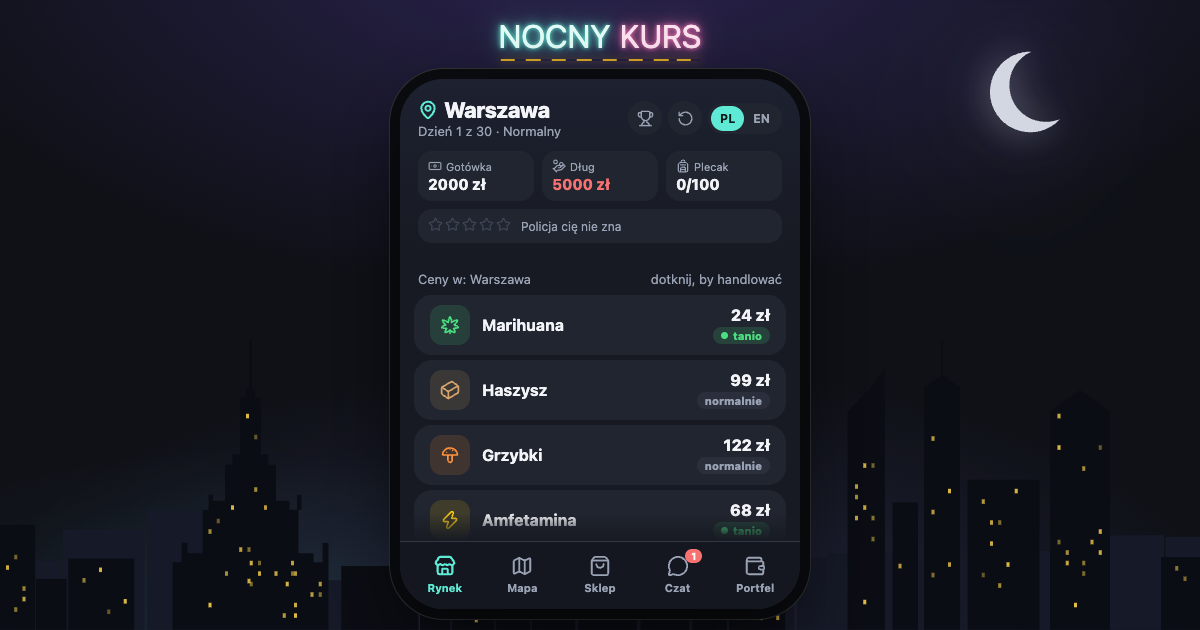
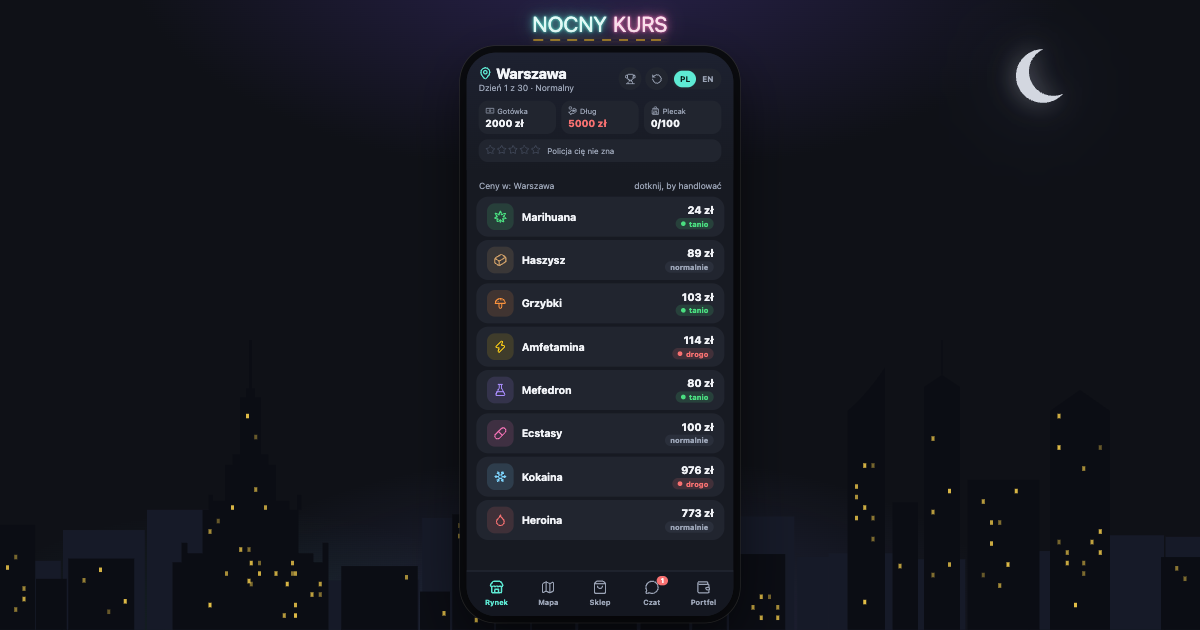
English README; fix Open Graph image proportions

Changed region(s): [[0.3392, 0.0, 0.6783, 0.9651], [0.3083, 0.3921, 0.4933, 0.9651], [0.8017, 0.0603, 0.8942, 0.2413]]

diff --git a/e2e/og.spec.ts b/e2e/og.spec.ts
@@ -1,6 +1,7 @@
 import { test } from '@playwright/test';
-// Generuje obrazek podglądu linku (Open Graph) 1200×630 do public/og.png
-test.use({ viewport: { width: 1200, height: 630 } });
+// Obrazek podglądu linku (Open Graph) 1200×630 → public/og.png.
+// Renderujemy w oknie 1800×945 (te same proporcje) i skalujemy ×2/3, żeby telefon miał naturalny kształt.
+test.use({ viewport: { width: 1800, height: 945 }, deviceScaleFactor: 2 / 3 });
 test('og image', async ({ page }) => {
   await page.goto('./');
   await page.evaluate(() => localStorage.clear());

diff --git a/README.md b/README.md
@@ -1,50 +1,51 @@
-# 🌙 Nocny Kurs / Night Run
+# 🌙 Night Run / Nocny Kurs
 
-Darmowa gra ekonomiczna w przeglądarce: kupuj tanio, sprzedawaj drogo, uciekaj przed policją i spłać Wujka Zbycha w 30 dni. Polskie miasta, nocny klimat, PL i EN.
+A free browser trading game: buy low, sell high, dodge the police and pay off Uncle Zbych in 30 days. Set in Polish cities at night, playable in English and Polish.
 
-**Zagraj:** https://jbutton.github.io/nocny-kurs/ · **English:** https://jbutton.github.io/nocny-kurs/en/
+**Play:** https://jbutton.github.io/nocny-kurs/en/ · **Po polsku:** https://jbutton.github.io/nocny-kurs/
 
-![Nocny Kurs](public/og.png)
+![Night Run](public/og.png)
 
-> 18+. Gra jest fikcją i satyrą. Nie zachęca do łamania prawa — pokazuje ryzyko i konsekwencje.
+> 18+. The game is fiction and satire. It doesn't encourage breaking the law; it shows the risks and the consequences.
 
-## Co jest w grze
+## Features
 
-- 8 towarów i 8 miast (Warszawa, Kraków, Gdańsk, Szczecin, Wrocław, Poznań, Łódź, Katowice), każde z nocną panoramą
-- Poziom poszukiwania (gwiazdki), kontrole policji, napady, jazda na gapę
-- Recepta na medyczną marihuanę: klinika, apteka, teleporada
-- Sklep: większy plecak, skuter, auto, dostawczak, ochrona
-- Dług u Wujka Zbycha: spłata, pożyczki, windykacja, bankructwo
-- 3 poziomy trudności, samouczek, automatyczny zapis, ranking z nickiem
-- Pełna wersja polska i angielska, przełączana w trakcie gry
+- 8 goods and 8 cities (Warsaw, Kraków, Gdańsk, Szczecin, Wrocław, Poznań, Łódź, Katowice), each with its own night skyline
+- Wanted level (stars), police checks, robberies, riding without a ticket
+- Medical cannabis prescription: clinic, pharmacy, telehealth renewal
+- Shop: bigger backpack, scooter, car, delivery van, protection
+- Debt to Uncle Zbych: repay, borrow, debt collectors, bankruptcy
+- 3 difficulty levels, tutorial, autosave, leaderboard with nicknames
+- Full English and Polish versions, switchable mid-game
+- No cookies, no tracking — everything is stored locally in the browser
 
-## Technologia
+## Tech stack
 
-[Astro](https://astro.build) (statyczny build) + [Svelte 5](https://svelte.dev) + [TanStack Store](https://tanstack.com/store) + [Lucide](https://lucide.dev).
+[Astro](https://astro.build) (static build) + [Svelte 5](https://svelte.dev) + [TanStack Store](https://tanstack.com/store) + [Lucide](https://lucide.dev) icons.
 
 ```
-src/game/        logika gry w czystym TypeScripcie (bez UI) — stan + akcja → nowy stan
-src/i18n/        teksty PL i EN
-src/stores/      TanStack Store: stan aplikacji, akcje, autozapis
-src/components/  komponenty Svelte 5
-src/pages/       strony Astro: / (PL) i /en/ (EN)
-tests/           testy logiki (Vitest)
-e2e/             testy w przeglądarce (Playwright)
-GDD.md           dokument projektowy gry
+src/game/        game logic in plain TypeScript (no UI) — state + action → new state
+src/i18n/        Polish and English texts
+src/stores/      TanStack Store: app state, actions, autosave
+src/components/  Svelte 5 components
+src/pages/       Astro pages: / (Polish) and /en/ (English)
+tests/           game logic tests (Vitest)
+e2e/             browser tests (Playwright)
+GDD.md           game design document (in Polish)
 ```
 
-## Uruchomienie
+## Getting started
 
 ```bash
 npm install
 npm run dev        # http://localhost:4321/nocny-kurs/
-npm test           # testy logiki
-npm run test:e2e   # build + testy w przeglądarce (wymaga Google Chrome)
-npm run build      # wersja produkcyjna do dist/
+npm test           # game logic tests
+npm run test:e2e   # build + browser tests (requires Google Chrome)
+npm run build      # production build in dist/
 ```
 
-Każdy push na `main` uruchamia testy i wdraża grę na GitHub Pages (`.github/workflows/deploy.yml`).
+Every push to `main` runs the tests and deploys the game to GitHub Pages (`.github/workflows/deploy.yml`).
 
-## Licencja
+## License
 
 [MIT](LICENSE)
